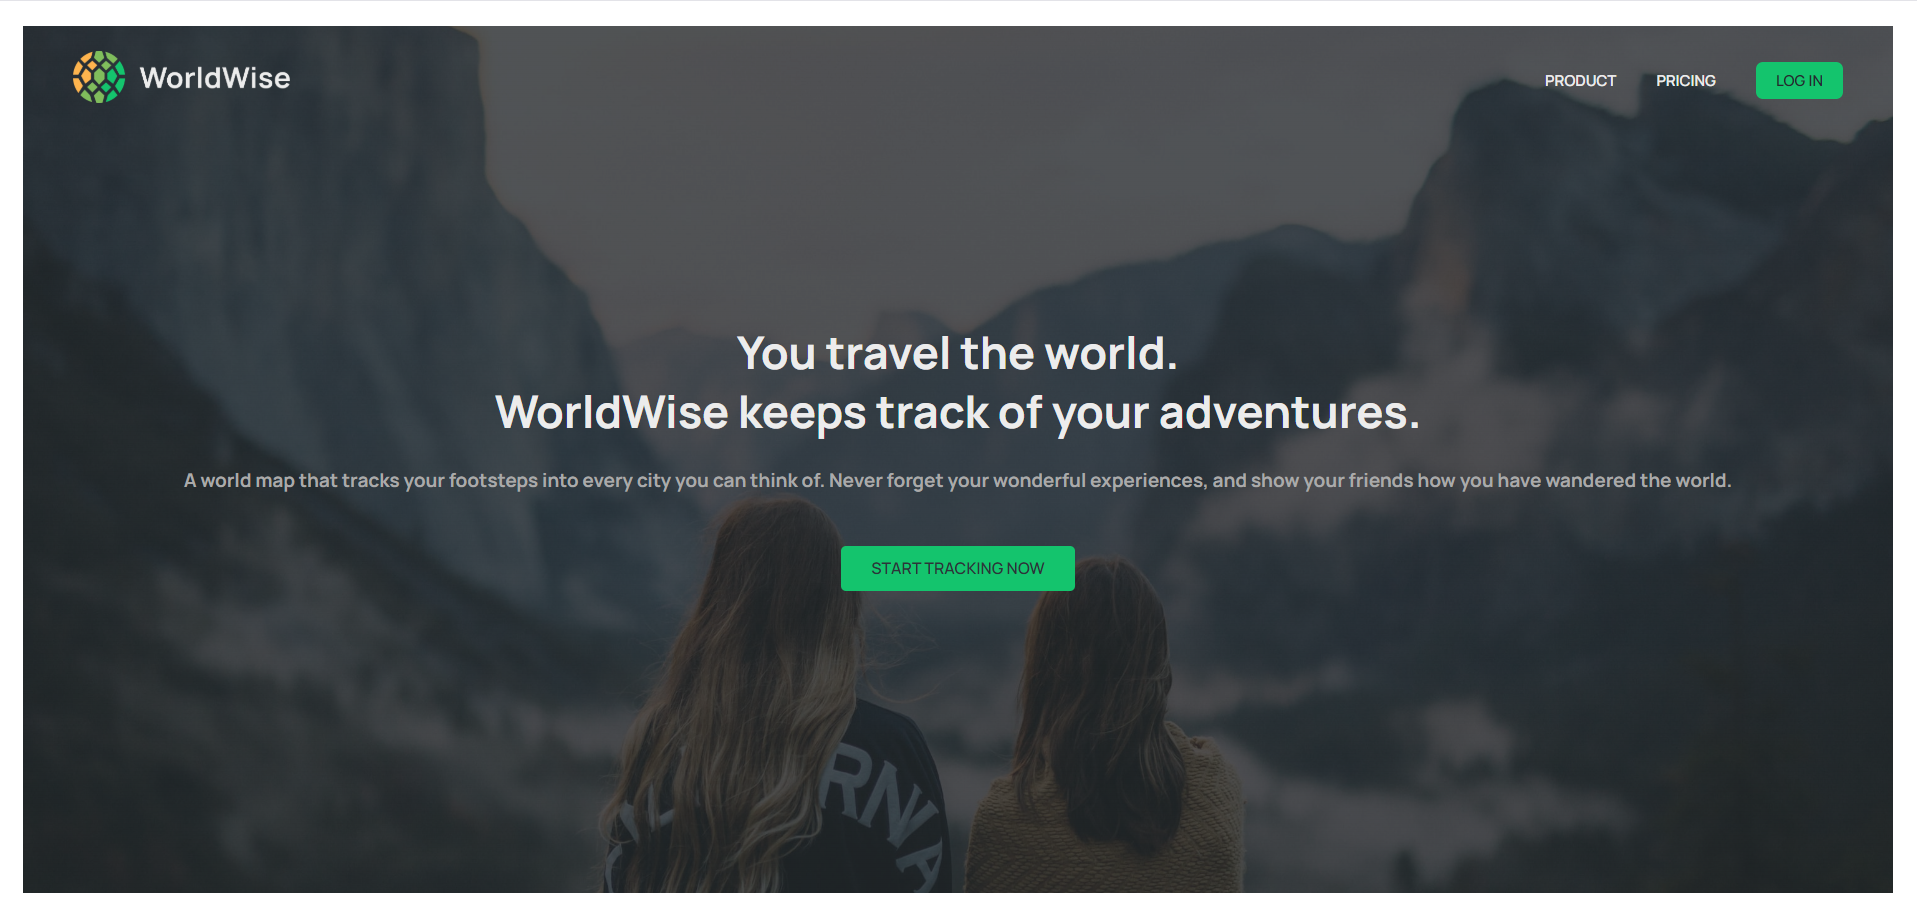
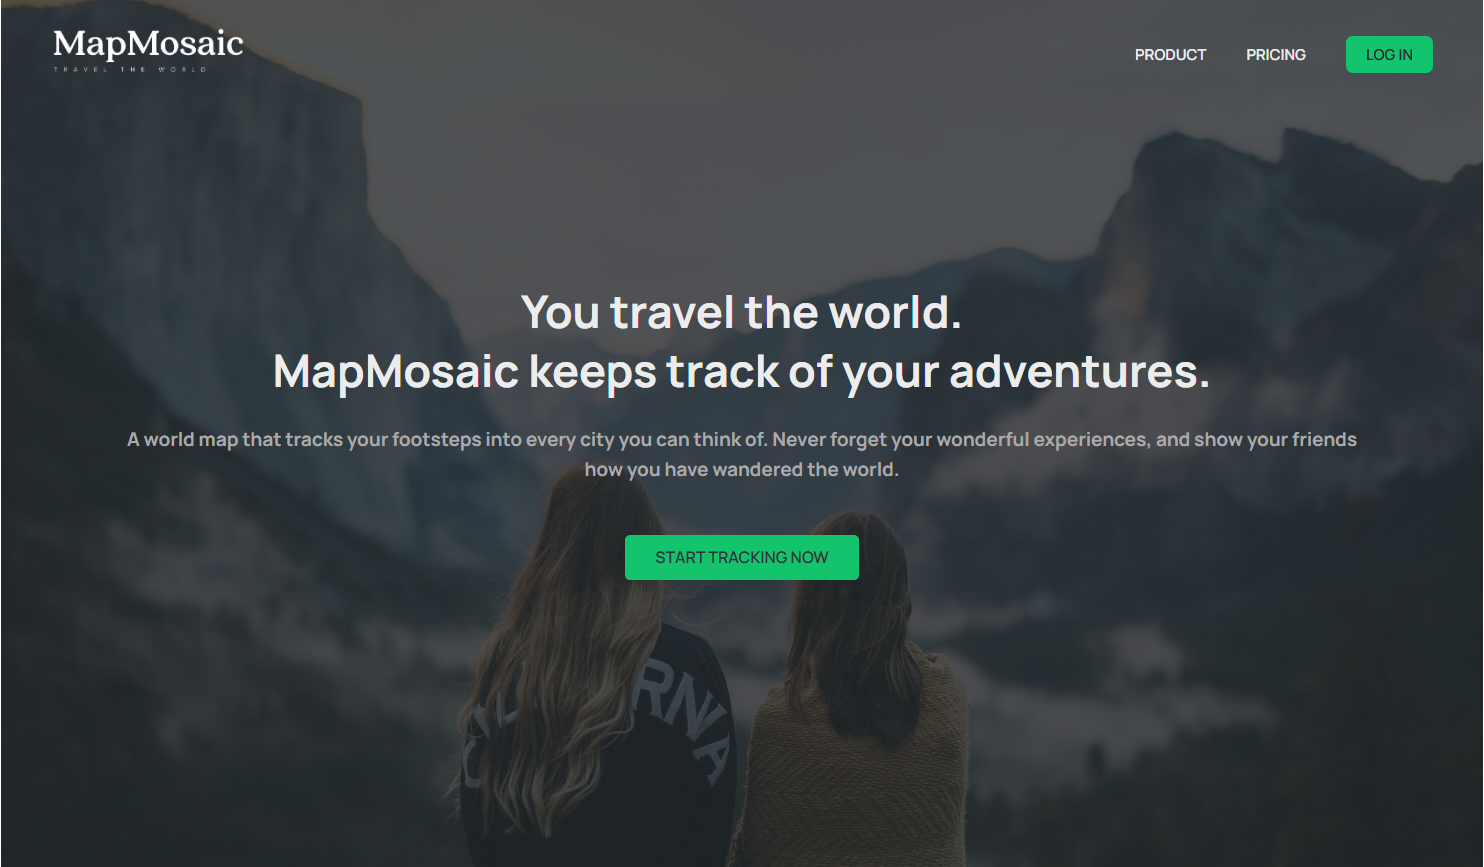
update content

diff --git a/src/pages/Product.jsx b/src/pages/Product.jsx
@@ -11,17 +11,19 @@ export default function Product() {
           alt='person with dog overlooking mountain with sunset'
         />
         <div>
-          <h2>About WorldWide.</h2>
+          <h2>About MapMosaic.</h2>
           <p>
-            Lorem ipsum dolor sit amet consectetur adipisicing elit. Illo est
-            dicta illum vero culpa cum quaerat architecto sapiente eius non
-            soluta, molestiae nihil laborum, placeat debitis, laboriosam at fuga
-            perspiciatis?
+            MapMosaic is a location-based app designed to inspire exploration
+            and discovery of the world&apos;s most iconic landmarks. Our mission
+            is to provide users with an immersive experience, combining
+            interactive maps, engaging content, and real-time location-based
+            information to bring the world closer to your fingertips.
           </p>
           <p>
-            Lorem, ipsum dolor sit amet consectetur adipisicing elit. Corporis
-            doloribus libero sunt expedita ratione iusto, magni, id sapiente
-            sequi officiis et.
+            At MapMosaic, we envision a world where travel and exploration are
+            accessible to everyone. We believe that by leveraging technology, we
+            can bridge the gap between curiosity and discovery, making it easier
+            for people to explore and appreciate the beauty of our planet.
           </p>
         </div>
       </section>

diff --git a/src/pages/Pricing.jsx b/src/pages/Pricing.jsx
@@ -13,11 +13,7 @@ export default function Product() {
             <br />
             Just $9/month.
           </h2>
-          <p>
-            Lorem ipsum dolor, sit amet consectetur adipisicing elit. Vitae vel
-            labore mollitia iusto. Recusandae quos provident, laboriosam fugit
-            voluptatem iste.
-          </p>
+          <p>At MapMosaic, we offer competetive pricing to suit everyone.</p>
         </div>
         <img src='img-2.jpg' alt='overview of a large city with skyscrapers' />
       </section>
